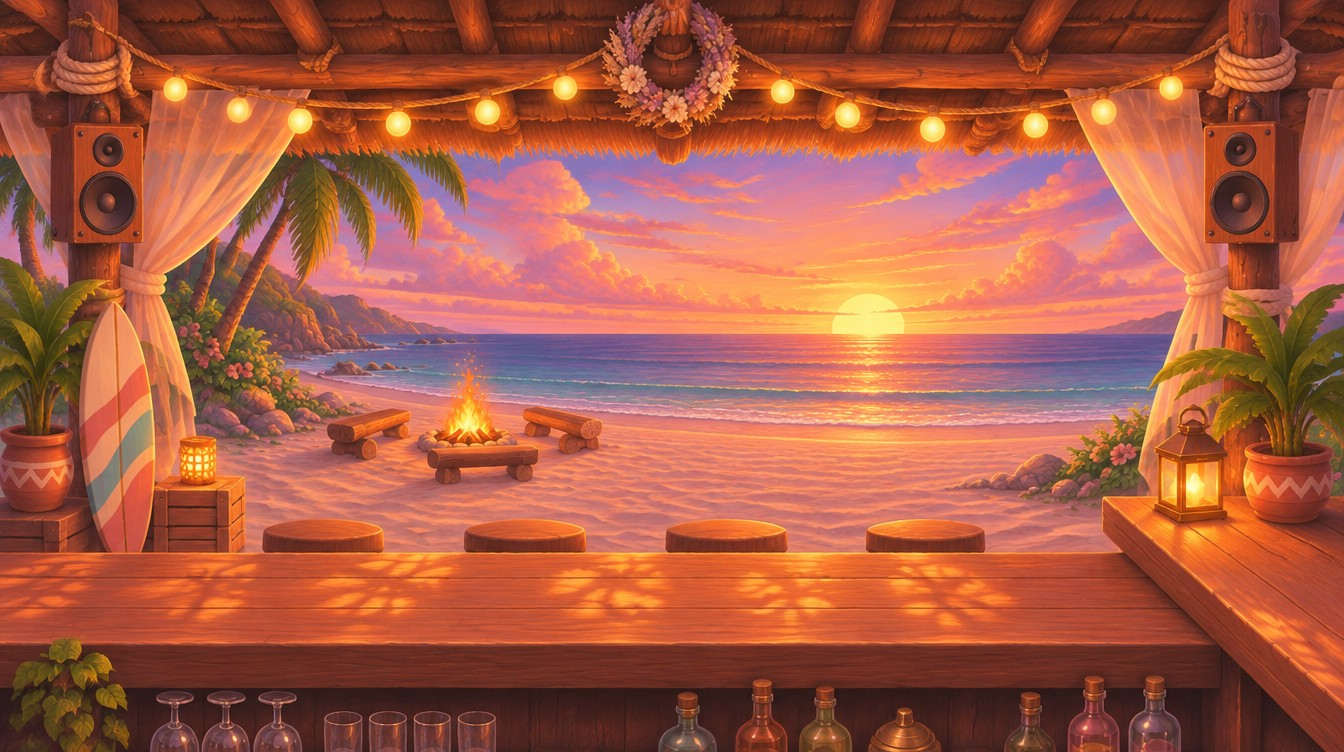
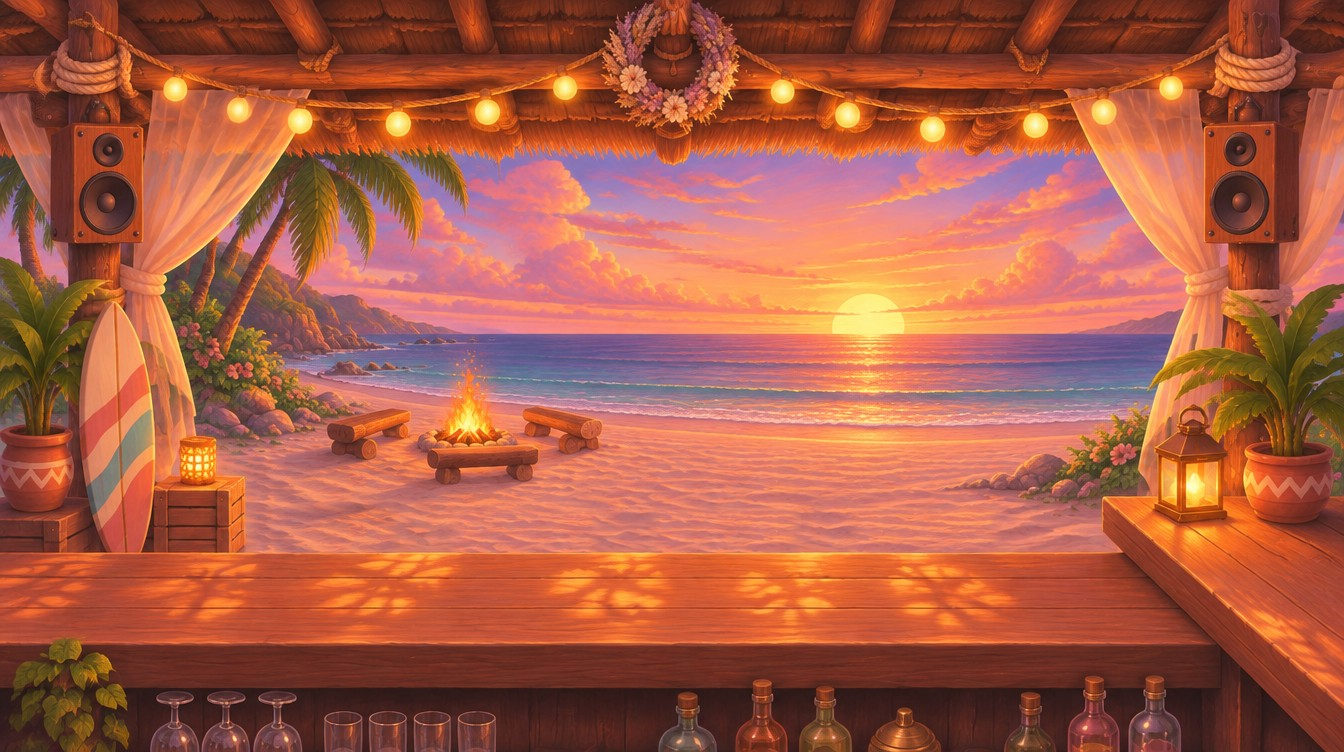
v1125l: 펍 그림 속 의자 지우고 자리마다 의자 배치, 캐릭터 키우기, 칵테일 잔 비주얼, 태블릿 열면 화면이 캐릭터 쪽으로
Claude-Session: https://claude.ai/code/session_01V1uW48asEmbAkskT1r7mEz

diff --git a/index.html b/index.html
@@ -234,6 +234,9 @@
   #bul .ln{position:absolute;left:0;right:0;top:26%;text-align:center;color:#f6e2c4;font:16px 'Gowun Batang','Nanum Myeongjo',serif;opacity:0;transition:opacity 1.6s;} #bul .ln.on{opacity:.85;}
   #bul .tm{position:absolute;left:0;right:0;top:calc(20px + env(safe-area-inset-top));text-align:center;color:#f6e2c4;opacity:.5;font:13px 'Gowun Dodum';}
   #bul .hint{position:absolute;left:0;right:0;bottom:calc(24px + env(safe-area-inset-bottom));text-align:center;color:#f6e2c4;opacity:.35;font:12px 'Gowun Dodum';}
+  .pubCup{position:absolute;top:76%;height:7.5%;aspect-ratio:80/90;transform:translate(-50%,-100%);animation:cupIn .7s cubic-bezier(.2,.9,.3,1.2);filter:drop-shadow(0 3px 2px rgba(60,20,0,.35));}
+  .pubCup svg{width:100%;height:100%;display:block;}
+  @keyframes cupIn{0%{transform:translate(-50%,40%);opacity:0}60%{opacity:1}100%{transform:translate(-50%,-100%)}}
   #who{position:fixed;top:calc(12px + env(safe-area-inset-top));right:14px;padding:6px 12px;border-radius:999px;background:rgba(40,30,45,.55);color:#fff4e2;font-size:13px;backdrop-filter:blur(6px);z-index:5;}
   #seats{position:absolute;inset:0;pointer-events:none;}
   .seatm{position:absolute;border-radius:50%;border:2px solid rgba(255,238,196,.95);background:rgba(255,226,170,.18);box-shadow:0 0 10px 2px rgba(255,205,130,.65);transform:translate(-50%,-50%);opacity:0;transition:opacity .35s;animation:seatp 1.5s ease-in-out infinite;}
@@ -694,7 +697,7 @@
 <div id="note" class="ov"><div class="nb"><button class="x" aria-label="닫기">×</button><div class="tabs"><button data-t="cal">달력</button><button data-t="day">일기</button><button data-t="req">부탁</button><button data-t="mys">수수께끼</button><button data-t="fr">친구</button></div><div class="pgs"><div id="noteL"></div><div id="noteR"></div></div></div></div><div id="toast"></div><div id="tutb"></div><div id="hTip"></div><div id="coach"></div><div id="cs"><div class="card"><button class="x" aria-label="닫기">×</button><div id="csBody"></div></div></div><div id="csd"></div><button id="admBtn" aria-label="관리자">⚙</button><div id="admTag">테스트 중 · 기록이 저장되지 않아요</div><div id="adm" class="ov"><div class="card"><button class="x" aria-label="닫기">×</button><div id="admBody"></div></div></div><div id="pst"><div class="card"><button class="x" aria-label="닫기">×</button><div id="pstBody"></div></div></div><div id="shop"><div class="card"><button class="x" aria-label="닫기">×</button><div id="shopBody"></div></div></div><button id="sndBtn" aria-label="소리"><img src="ui/i_snd_on.webp" alt=""></button><div id="dress"></div><div id="who">1명 접속 중</div>
 <button id="standBtn">일어나기</button><button id="fireBtn">🔥 모닥불 앞에서 뭐 할까</button><button id="focusBtn"></button><button id="outBtn">나가기</button><button id="decoBtn">꾸미기</button><div id="homeEdit"></div><div id="homeBar"></div><form id="chat" autocomplete="off"><input id="msg" maxlength="60" placeholder="이웃에게 한마디"><button type="submit">보내기</button></form>
 <div id="fade"><div class="fcap" id="fcap"></div></div>
-<div id="title"><div style="position:absolute;right:10px;bottom:8px;font-size:11px;opacity:.45">v1125k</div>
+<div id="title"><div style="position:absolute;right:10px;bottom:8px;font-size:11px;opacity:.45">v1125l</div>
 <div class="scr" id="invScr"><div class="env" id="envBtn"><div class="flap"></div><div class="seal">H</div></div><p class="tt">현디에게서 초대장이 왔어요</p><p class="hint">봉투를 눌러 열어봐</p>
   <div class="letter" id="invLetter"><div class="lt">이브 빌리지로의 초대</div>
     <p>내가 아는 소중한 사람들을 전부 이 마을에 불렀어.<br>그러니까 여기 오는 사람은 다 내 친구야. 너희끼리는 처음 보는 사이일 수도 있지만.</p>
@@ -713,7 +716,7 @@
 <div id="load">마을 불러오는 중…</div>
 <script src="maps.js?v=1122x"></script>
 <script src="chars.js?v=1120b"></script>
-<script>Object.assign(window.MAPS,{hill:"hill/hill.jpg",mask_hill:"hill/mask.png",fx_hill:"post/fx.png",b_clock:"bld/clock.webp",b_clockh:"bld/clockh.webp",b_board:"bld/board.webp",curio:"curio/curio.jpg",pub:"pub/pub.jpg",mask_pub:"pub/mask.png",fx_pub:"post/fx.png",mask_curio:"curio/mask.png",fx_curio:"curio/fx.png",curio_float:"curio/float.png",post:"post/post.jpg?v=2",mask_post:"post/mask.png",fx_post:"post/fx.png",post_float:"post/float.png?v=2",camp:"grnd/camp.jpg",mask_camp:"post/mask.png",fx_camp:"post/fx.png",b_dome_on:"camp/dome_on.webp",b_dome_off:"camp/dome_off.webp",b_tipi_on:"camp/tipi_on.webp",b_tipi_off:"camp/tipi_off.webp",b_flag:"camp/flag.webp",b_mailbox:"camp/mailbox.webp",home:"home/room.jpg",mask_home:"post/mask.png",fx_home:"post/fx.png",b_h_bed:"home/bed.webp?v=2",b_h_bed_f:"home/bed_f.webp",b_h_bed_s_f:"home/bed_s_f.webp",b_h_armchair_f:"home/armchair_f.webp",b_h_armchair_s_f:"home/armchair_s_f.webp",b_h_rug:"home/rug.webp?v=2",b_h_stove:"home/stove.webp?v=2",b_h_table:"home/table.webp",b_h_chair:"home/chair.webp",b_h_armchair:"home/armchair.webp",b_h_rack:"home/rack.webp",b_h_shelf:"home/shelf.webp",b_h_plant:"home/plant.webp",b_h_lamp:"home/lamp.webp",b_h_side:"home/side.webp",b_h_chair_s:"home/chair_s.webp",b_h_armchair_s:"home/armchair_s.webp",b_h_shelf_s:"home/shelf_s.webp",b_h_rack_s:"home/rack_s.webp",b_h_stove_s:"home/stove_s.webp",b_h_bed_s:"home/bed_s.webp",b_h_win_sea:"home/win_sea.webp",b_h_win_forest:"home/win_forest.webp",b_h_win_sky:"home/win_sky.webp",it_shell_w:"items/shell_w.webp",it_shell_p:"items/shell_p.webp",it_shell_v:"items/shell_v.webp",it_wood:"items/wood.webp",it_glass_g:"items/glass_g.webp",it_conch:"items/conch.webp",it_glass_b:"items/glass_b.webp",it_star:"items/star.webp",it_pearl:"items/pearl.webp",it_bottle:"items/bottle.webp",plaza:"grnd/plaza2.jpg",beach:"grnd/beach.jpg",b_news:"bld/news.webp",b_cafe:"bld/cafe.webp",b_library:"bld/library.webp",b_curio2:"bld/curio2.webp",b_post2:"bld/post2.webp",b_pub:"bld/pub.webp",library:"lib3/hall.jpg",mask_library:"lib/mask_library.png",fx_library:"lib3/fx.png",b_l3_t1L:"lib3/t1L.webp",b_book:"lib2/book.webp",b_obook:"lib3/obook_f.webp",b_opage:"lib3/opage_f.webp",b_l3_t2L:"lib3/t2L.webp",b_l3_t3L:"lib3/t3L.webp",b_l3_t1:"lib3/t1.webp",b_l3_t2:"lib3/t2.webp",b_l3_t3:"lib3/t3.webp",b_l3_b1b:"lib3/b1b.webp",b_l3_b2b:"lib3/b2b.webp",b_l3_b3b:"lib3/b3b.webp",b_l3_sofa:"lib3/sofa.webp",b_l3_arm1:"lib3/arm1.webp",b_l3_arm2:"lib3/arm2.webp",b_l3_lect:"lib3/lect.webp",b_lb_table:"lib2/table.webp",b_lb_bench:"lib2/bench.webp",b_lb_sofa:"lib2/sofa.webp",b_lb_arm:"lib2/arm.webp",b_lb_gchair:"lib2/gchair.webp",b_lb_lamp:"lib2/lamp.webp",b_lb_desk:"lib2/desk.webp",b_lb_lectern:"lib2/lectern.webp",b_lb_sofa_f:"lib2/sofa_f.webp",b_lb_arm_f:"lib2/arm_f.webp",b_lb_gchair_f:"lib2/gchair_f.webp",candles:"lib/candles.png"});</script>
+<script>Object.assign(window.MAPS,{hill:"hill/hill.jpg",mask_hill:"hill/mask.png",fx_hill:"post/fx.png",b_clock:"bld/clock.webp",b_clockh:"bld/clockh.webp",b_board:"bld/board.webp",curio:"curio/curio.jpg",pub:"pub/pub.jpg",b_stool:"pub/stool.webp",mask_pub:"pub/mask.png",fx_pub:"post/fx.png",mask_curio:"curio/mask.png",fx_curio:"curio/fx.png",curio_float:"curio/float.png",post:"post/post.jpg?v=2",mask_post:"post/mask.png",fx_post:"post/fx.png",post_float:"post/float.png?v=2",camp:"grnd/camp.jpg",mask_camp:"post/mask.png",fx_camp:"post/fx.png",b_dome_on:"camp/dome_on.webp",b_dome_off:"camp/dome_off.webp",b_tipi_on:"camp/tipi_on.webp",b_tipi_off:"camp/tipi_off.webp",b_flag:"camp/flag.webp",b_mailbox:"camp/mailbox.webp",home:"home/room.jpg",mask_home:"post/mask.png",fx_home:"post/fx.png",b_h_bed:"home/bed.webp?v=2",b_h_bed_f:"home/bed_f.webp",b_h_bed_s_f:"home/bed_s_f.webp",b_h_armchair_f:"home/armchair_f.webp",b_h_armchair_s_f:"home/armchair_s_f.webp",b_h_rug:"home/rug.webp?v=2",b_h_stove:"home/stove.webp?v=2",b_h_table:"home/table.webp",b_h_chair:"home/chair.webp",b_h_armchair:"home/armchair.webp",b_h_rack:"home/rack.webp",b_h_shelf:"home/shelf.webp",b_h_plant:"home/plant.webp",b_h_lamp:"home/lamp.webp",b_h_side:"home/side.webp",b_h_chair_s:"home/chair_s.webp",b_h_armchair_s:"home/armchair_s.webp",b_h_shelf_s:"home/shelf_s.webp",b_h_rack_s:"home/rack_s.webp",b_h_stove_s:"home/stove_s.webp",b_h_bed_s:"home/bed_s.webp",b_h_win_sea:"home/win_sea.webp",b_h_win_forest:"home/win_forest.webp",b_h_win_sky:"home/win_sky.webp",it_shell_w:"items/shell_w.webp",it_shell_p:"items/shell_p.webp",it_shell_v:"items/shell_v.webp",it_wood:"items/wood.webp",it_glass_g:"items/glass_g.webp",it_conch:"items/conch.webp",it_glass_b:"items/glass_b.webp",it_star:"items/star.webp",it_pearl:"items/pearl.webp",it_bottle:"items/bottle.webp",plaza:"grnd/plaza2.jpg",beach:"grnd/beach.jpg",b_news:"bld/news.webp",b_cafe:"bld/cafe.webp",b_library:"bld/library.webp",b_curio2:"bld/curio2.webp",b_post2:"bld/post2.webp",b_pub:"bld/pub.webp",library:"lib3/hall.jpg",mask_library:"lib/mask_library.png",fx_library:"lib3/fx.png",b_l3_t1L:"lib3/t1L.webp",b_book:"lib2/book.webp",b_obook:"lib3/obook_f.webp",b_opage:"lib3/opage_f.webp",b_l3_t2L:"lib3/t2L.webp",b_l3_t3L:"lib3/t3L.webp",b_l3_t1:"lib3/t1.webp",b_l3_t2:"lib3/t2.webp",b_l3_t3:"lib3/t3.webp",b_l3_b1b:"lib3/b1b.webp",b_l3_b2b:"lib3/b2b.webp",b_l3_b3b:"lib3/b3b.webp",b_l3_sofa:"lib3/sofa.webp",b_l3_arm1:"lib3/arm1.webp",b_l3_arm2:"lib3/arm2.webp",b_l3_lect:"lib3/lect.webp",b_lb_table:"lib2/table.webp",b_lb_bench:"lib2/bench.webp",b_lb_sofa:"lib2/sofa.webp",b_lb_arm:"lib2/arm.webp",b_lb_gchair:"lib2/gchair.webp",b_lb_lamp:"lib2/lamp.webp",b_lb_desk:"lib2/desk.webp",b_lb_lectern:"lib2/lectern.webp",b_lb_sofa_f:"lib2/sofa_f.webp",b_lb_arm_f:"lib2/arm_f.webp",b_lb_gchair_f:"lib2/gchair_f.webp",candles:"lib/candles.png"});</script>
 <script type="module">
 import * as THREE from 'three';
 import { GLTFLoader } from 'three/addons/loaders/GLTFLoader.js';import * as SkelU from 'three/addons/utils/SkeletonUtils.js';
@@ -751,7 +754,7 @@ const PLACES={
     "entry":[49,93],
     "glows":[[50,53,8,"255,190,110"],[22,77,4,"255,190,110"],[32,88,4,"255,190,110"],[66,80.5,4,"255,190,110"]]}
   ,curio:{"contain":true,"label":"만물상","img":"curio","ar":0.6666666666666666,"size":0.072,"gx":120,"gy":180,"dust":true,"flies":false,"sea":null,"floatTex":"curio_float","floatAmp":2.4,"candles":[{"x":35.745,"y":13.813,"w":20.548,"h":9.817,"u0":0.0,"v0":0.0,"u1":0.2,"v1":0.3926940639269406},{"x":56.978,"y":12.985,"w":11.644,"h":8.676,"u0":0.2,"v0":0.0,"u1":0.31333333333333335,"v1":0.3470319634703196},{"x":25.728,"y":17.494,"w":11.815,"h":9.989,"u0":0.4,"v0":0.0,"u1":0.515,"v1":0.3995433789954338},{"x":61.601,"y":20.833,"w":13.014,"h":6.963,"u0":0.6,"v0":0.0,"u1":0.7266666666666667,"v1":0.2785388127853881},{"x":43.75,"y":22.489,"w":12.5,"h":12.5,"u0":0.8,"v0":0.0,"u1":0.9216666666666666,"v1":0.5},{"x":33.861,"y":25.828,"w":9.503,"h":8.219,"u0":0.0,"v0":0.5,"u1":0.0925,"v1":0.8287671232876712},{"x":54.966,"y":27.911,"w":16.952,"h":8.333,"u0":0.2,"v0":0.5,"u1":0.365,"v1":0.8333333333333334},{"x":27.483,"y":32.078,"w":12.5,"h":10.959,"u0":0.4,"v0":0.5,"u1":0.5216666666666666,"v1":0.9383561643835616},{"x":43.108,"y":34.646,"w":9.932,"h":9.817,"u0":0.6,"v0":0.5,"u1":0.6966666666666667,"v1":0.8926940639269406},{"x":54.495,"y":34.646,"w":15.753,"h":9.817,"u0":0.8,"v0":0.5,"u1":0.9533333333333334,"v1":0.8926940639269406}],"walk":[[[27.5,69.5],[72.5,69.5],[84,93],[85,99.6],[15,99.6],[16,93]]],"block":[],"seats":[],"occ":[],"exits":[{"poly":[[38,92.6],[62,92.6],[62,99.6],[38,99.6]],"to":"plaza","spawn":[57.4,60],"face":[50,64]}],"acts":[{"r":[37.5,56.5,45.5,62.5],"to":[42,72],"act":"shop","bell":[41.5,60.2]}],"entry":[50,88.6],"outBtn":true,"glows":[[36,58,5,"235,150,255"],[50,62,6,"255,190,110"],[20,28,6,"235,150,255"],[81,28,6,"235,150,255"]]}
-  ,pub:{"label":"비치 펍","img":"pub","ar":1.7872340425531914,"size":0.125,"gx":240,"gy":135,"dust":false,"flies":false,"sea":{"x0":22,"x1":86,"y0":45,"y1":55},"bld":[],"walk":[[[16.5,63.5],[80,63.5],[80,71.3],[16.5,71.3]]],"block":[],"seats":[{"x":18.5,"y":72.2,"behind":true,"look":[18.5,99]},{"x":24.2,"y":72.2,"behind":true,"look":[24.2,99]},{"x":31.5,"y":72.2,"behind":true,"look":[31.5,99]},{"x":38.8,"y":72.2,"behind":true,"look":[38.8,99]},{"x":46.4,"y":72.2,"behind":true,"look":[46.4,99]},{"x":53.8,"y":72.2,"behind":true,"look":[53.8,99]},{"x":61.4,"y":72.2,"behind":true,"look":[61.4,99]},{"x":69,"y":72.2,"behind":true,"look":[69,99]},{"x":76.2,"y":72.2,"behind":true,"look":[76.2,99]}],"occ":[{"p":[[0,73.2],[81.8,73.2],[81.8,66],[100,66],[100,100],[0,100]],"b":99}],"exits":[{"poly":[[13,62],[17,62],[17,71],[13,71]],"to":"beach","spawn":[30,61],"face":[30,70]}],"entry":[48,67],"outBtn":true,"glows":[[35,58,7,"255,160,70",true],[88.6,62,4,"255,190,110",true],[14.8,60.5,3,"255,190,110",true],[13,12,3,"255,210,140"],[29.5,16,3,"255,210,140"],[42,13,3,"255,210,140"],[63,14,3,"255,210,140"],[77,16,3,"255,210,140"]]}
+  ,pub:{"label":"비치 펍","img":"pub","ar":1.7872340425531914,"size":0.16,"gx":240,"gy":135,"dust":false,"flies":false,"sea":{"x0":22,"x1":86,"y0":45,"y1":55},"bld":[{"img":"stool","cx":19,"by":74,"w":5.8,"z":71.5,"fp":[[16.5,72.8],[21.5,72.8],[21.5,73.4],[16.5,73.4]],"noShadow":true},{"img":"stool","cx":26.2,"by":74,"w":5.8,"z":71.5,"fp":[[23.7,72.8],[28.7,72.8],[28.7,73.4],[23.7,73.4]],"noShadow":true},{"img":"stool","cx":33.4,"by":74,"w":5.8,"z":71.5,"fp":[[30.9,72.8],[35.9,72.8],[35.9,73.4],[30.9,73.4]],"noShadow":true},{"img":"stool","cx":40.6,"by":74,"w":5.8,"z":71.5,"fp":[[38.1,72.8],[43.1,72.8],[43.1,73.4],[38.1,73.4]],"noShadow":true},{"img":"stool","cx":47.8,"by":74,"w":5.8,"z":71.5,"fp":[[45.3,72.8],[50.3,72.8],[50.3,73.4],[45.3,73.4]],"noShadow":true},{"img":"stool","cx":55,"by":74,"w":5.8,"z":71.5,"fp":[[52.5,72.8],[57.5,72.8],[57.5,73.4],[52.5,73.4]],"noShadow":true},{"img":"stool","cx":62.2,"by":74,"w":5.8,"z":71.5,"fp":[[59.7,72.8],[64.7,72.8],[64.7,73.4],[59.7,73.4]],"noShadow":true},{"img":"stool","cx":69.4,"by":74,"w":5.8,"z":71.5,"fp":[[66.9,72.8],[71.9,72.8],[71.9,73.4],[66.9,73.4]],"noShadow":true},{"img":"stool","cx":76.6,"by":74,"w":5.8,"z":71.5,"fp":[[74.1,72.8],[79.1,72.8],[79.1,73.4],[74.1,73.4]],"noShadow":true}],"walk":[[[16.5,63.5],[80,63.5],[80,71.3],[16.5,71.3]]],"block":[],"seats":[{"x":19,"y":70.4,"z":72,"look":[19,99]},{"x":26.2,"y":70.4,"z":72,"look":[26.2,99]},{"x":33.4,"y":70.4,"z":72,"look":[33.4,99]},{"x":40.6,"y":70.4,"z":72,"look":[40.6,99]},{"x":47.8,"y":70.4,"z":72,"look":[47.8,99]},{"x":55,"y":70.4,"z":72,"look":[55,99]},{"x":62.2,"y":70.4,"z":72,"look":[62.2,99]},{"x":69.4,"y":70.4,"z":72,"look":[69.4,99]},{"x":76.6,"y":70.4,"z":72,"look":[76.6,99]}],"occ":[{"p":[[0,73.2],[81.8,73.2],[81.8,66],[100,66],[100,100],[0,100]],"b":99}],"exits":[{"poly":[[13,62],[17,62],[17,71],[13,71]],"to":"beach","spawn":[30,61],"face":[30,70]}],"entry":[48,67],"outBtn":true,"glows":[[35,58,7,"255,160,70",true],[88.6,62,4,"255,190,110",true],[14.8,60.5,3,"255,190,110",true],[13,12,3,"255,210,140"],[29.5,16,3,"255,210,140"],[42,13,3,"255,210,140"],[63,14,3,"255,210,140"],[77,16,3,"255,210,140"]]}
   ,post:{"contain":true,"label":"우체국","img":"post","ar":0.6666666666666666,"size":0.072,"gx":120,"gy":180,"dust":true,"flies":false,"sea":null,"floatTex":"post_float","floatAmp":1.0,"candles":[{"x":51.413,"y":2.683,"w":8.048,"h":3.282,"u0":0.00209,"v0":0.00725,"u1":0.13703,"v1":0.29348},{"x":41.781,"y":7.078,"w":8.904,"h":3.311,"u0":0.25209,"v0":0.00725,"u1":0.40063,"v1":0.29348},{"x":52.997,"y":10.017,"w":11.301,"h":4.224,"u0":0.50209,"v0":0.00725,"u1":0.69142,"v1":0.37319},{"x":32.791,"y":13.584,"w":11.986,"h":4.224,"u0":0.75209,"v0":0.00725,"u1":0.95293,"v1":0.37319},{"x":51.627,"y":17.865,"w":14.127,"h":5.508,"u0":0.00209,"v0":0.50725,"u1":0.23849,"v1":0.98551},{"x":41.909,"y":23.002,"w":8.776,"h":3.596,"u0":0.25209,"v0":0.50725,"u1":0.39854,"v1":0.81884},{"x":28.938,"y":25.856,"w":14.683,"h":5.594,"u0":0.50209,"v0":0.50725,"u1":0.74791,"v1":0.99275},{"x":50.257,"y":28.995,"w":14.341,"h":5.137,"u0":0.75209,"v0":0.50725,"u1":0.99163,"v1":0.9529}],"walk":[[[29,66],[70,66],[76,67.5],[84,73.5],[91,80],[95,87],[92,92],[84,96.5],[80,99.6],[20,99.6],[13,95],[4,90],[3,82],[16,81.5],[26,81],[28.5,77],[29,72]]],"block":[],"seats":[],"occ":[],"exits":[{"poly":[[38,92.6],[62,92.6],[62,99.6],[38,99.6]],"to":"plaza","spawn":[73.5,58.8],"face":[66,62]}],"acts":[{"r":[41.5,52,49.5,58.2],"to":[46.5,68.5],"act":"post","say":"counter","bell":[45.5,55.8]},{"r":[2,58,27.5,80],"to":[32,77],"act":"post","say":"desk"},{"r":[73,40,100,72],"to":[79,72],"act":"post","say":"window"}],"glows":[[14,20,5,"255,180,140"],[86,20,5,"255,180,140"],[9,58,5,"255,190,110"],[34,46,4,"255,190,110"],[65,46,4,"255,190,110"],[50,1,9,"255,220,160"]],"entry":[50,88.6],"outBtn":true}
   ,camp:{"ar":1.7777777777777777,"img":"camp","label":"절벽 위 들판","size":0.046,"dust":true,"flies":true,"sea":null,"bld":[{"img":"sg_plaza_l","cx":6,"by":61.4,"w":1.3,"z":61.4,"fp":[[5.4,61],[6.6,61],[6.6,61.4],[5.4,61.4]],"door":[0.8,65.5]},{"img":"dome_off","cx":15.32,"by":24.3,"w":6.29,"fp":[[17.84,23.0],[17.5,23.75],[16.58,24.3],[15.32,24.5],[14.06,24.3],[13.14,23.75],[12.8,23.0],[13.14,22.25],[14.06,21.7],[15.32,21.5],[16.58,21.7],[17.5,22.25]],"door":[15.32,25.8],"tent":0,"t":"dome","c":5,"flip":true,"mb":[18.97,24.5]},{"img":"tipi_off","cx":24.58,"by":19.4,"w":5.16,"fp":[[26.64,18.1],[26.37,18.85],[25.61,19.4],[24.58,19.6],[23.55,19.4],[22.79,18.85],[22.52,18.1],[22.79,17.35],[23.55,16.8],[24.58,16.6],[25.61,16.8],[26.37,17.35]],"door":[24.58,20.9],"tent":1,"t":"tipi","c":4,"flip":true,"mb":[21.59,19.6]},{"img":"dome_off","cx":30.73,"by":26.1,"w":6.4,"fp":[[33.29,24.8],[32.95,25.55],[32.01,26.1],[30.73,26.3],[29.45,26.1],[28.51,25.55],[28.17,24.8],[28.51,24.05],[29.45,23.5],[30.73,23.3],[32.01,23.5],[32.95,24.05]],"door":[30.73,27.6],"tent":2,"t":"dome","c":3,"flip":true,"mb":[27.02,26.3]},{"img":"dome_off","cx":35.14,"by":18.3,"w":6.23,"fp":[[37.63,17.0],[37.3,17.75],[36.39,18.3],[35.14,18.5],[33.89,18.3],[32.98,17.75],[32.65,17.0],[32.98,16.25],[33.89,15.7],[35.14,15.5],[36.39,15.7],[37.3,16.25]],"door":[35.14,19.8],"tent":3,"t":"dome","c":0,"flip":false,"mb":[31.53,18.5]},{"img":"tipi_off","cx":41.38,"by":23.0,"w":4.81,"fp":[[43.3,21.7],[43.05,22.45],[42.34,23.0],[41.38,23.2],[40.42,23.0],[39.71,22.45],[39.46,21.7],[39.71,20.95],[40.42,20.4],[41.38,20.2],[42.34,20.4],[43.05,20.95]],"door":[41.38,24.5],"tent":4,"t":"tipi","c":5,"flip":false,"mb":[38.59,23.2]},{"img":"dome_off","cx":68.67,"by":22.5,"w":6.12,"fp":[[71.12,21.2],[70.79,21.95],[69.89,22.5],[68.67,22.7],[67.45,22.5],[66.55,21.95],[66.22,21.2],[66.55,20.45],[67.45,19.9],[68.67,19.7],[69.89,19.9],[70.79,20.45]],"door":[68.67,24.0],"tent":5,"t":"dome","c":0,"flip":false,"mb":[65.12,22.7]},{"img":"dome_off","cx":74.89,"by":26.5,"w":6.11,"fp":[[77.33,25.2],[77.01,25.95],[76.11,26.5],[74.89,26.7],[73.67,26.5],[72.77,25.95],[72.45,25.2],[72.77,24.45],[73.67,23.9],[74.89,23.7],[76.11,23.9],[77.01,24.45]],"door":[74.89,28.0],"tent":6,"t":"dome","c":2,"flip":true,"mb":[71.35,26.7]},{"img":"tipi_off","cx":48.26,"by":18.4,"w":5.02,"fp":[[50.27,17.1],[50.0,17.85],[49.26,18.4],[48.26,18.6],[47.26,18.4],[46.52,17.85],[46.25,17.1],[46.52,16.35],[47.26,15.8],[48.26,15.6],[49.26,15.8],[50.0,16.35]],"door":[48.26,19.9],"tent":7,"t":"tipi","c":4,"flip":false,"mb":[45.35,18.6]},{"img":"dome_off","cx":21.87,"by":39.6,"w":6.2,"fp":[[24.35,38.3],[24.02,39.05],[23.11,39.6],[21.87,39.8],[20.63,39.6],[19.72,39.05],[19.39,38.3],[19.72,37.55],[20.63,37.0],[21.87,36.8],[23.11,37.0],[24.02,37.55]],"door":[21.87,41.1],"tent":8,"t":"dome","c":5,"flip":true,"mb":[25.47,39.8]},{"img":"tipi_off","cx":14.27,"by":45.5,"w":4.8,"fp":[[16.19,44.2],[15.93,44.95],[15.23,45.5],[14.27,45.7],[13.31,45.5],[12.61,44.95],[12.35,44.2],[12.61,43.45],[13.31,42.9],[14.27,42.7],[15.23,42.9],[15.93,43.45]],"door":[14.27,47.0],"tent":9,"t":"tipi","c":4,"flip":true,"mb":[17.05,45.7]},{"img":"dome_off","cx":32.74,"by":43.4,"w":6.21,"fp":[[35.22,42.1],[34.89,42.85],[33.98,43.4],[32.74,43.6],[31.5,43.4],[30.59,42.85],[30.26,42.1],[30.59,41.35],[31.5,40.8],[32.74,40.6],[33.98,40.8],[34.89,41.35]],"door":[32.74,44.9],"tent":10,"t":"dome","c":3,"flip":false,"mb":[29.14,43.6]},{"img":"dome_off","cx":42.44,"by":40.8,"w":6.38,"fp":[[44.99,39.5],[44.65,40.25],[43.72,40.8],[42.44,41.0],[41.16,40.8],[40.23,40.25],[39.89,39.5],[40.23,38.75],[41.16,38.2],[42.44,38.0],[43.72,38.2],[44.65,38.75]],"door":[42.44,42.3],"tent":11,"t":"dome","c":2,"flip":true,"mb":[38.74,41.0]},{"img":"tipi_off","cx":52.26,"by":43.0,"w":5.15,"fp":[[54.32,41.7],[54.04,42.45],[53.29,43.0],[52.26,43.2],[51.23,43.0],[50.48,42.45],[50.2,41.7],[50.48,40.95],[51.23,40.4],[52.26,40.2],[53.29,40.4],[54.04,40.95]],"door":[52.26,44.5],"tent":12,"t":"tipi","c":1,"flip":true,"mb":[49.27,43.2]},{"img":"dome_off","cx":68.6,"by":46.0,"w":6.27,"fp":[[71.11,44.7],[70.77,45.45],[69.85,46.0],[68.6,46.2],[67.35,46.0],[66.43,45.45],[66.09,44.7],[66.43,43.95],[67.35,43.4],[68.6,43.2],[69.85,43.4],[70.77,43.95]],"door":[68.6,47.5],"tent":13,"t":"dome","c":2,"flip":false,"mb":[64.96,46.2]},{"img":"dome_off","cx":25.28,"by":61.0,"w":6.26,"fp":[[27.78,59.7],[27.45,60.45],[26.53,61.0],[25.28,61.2],[24.03,61.0],[23.11,60.45],[22.78,59.7],[23.11,58.95],[24.03,58.4],[25.28,58.2],[26.53,58.4],[27.45,58.95]],"door":[25.28,62.5],"tent":14,"t":"dome","c":0,"flip":false,"mb":[21.65,61.2]},{"img":"tipi_off","cx":12.97,"by":65.2,"w":4.83,"fp":[[14.9,63.9],[14.64,64.65],[13.94,65.2],[12.97,65.4],[12.0,65.2],[11.3,64.65],[11.04,63.9],[11.3,63.15],[12.0,62.6],[12.97,62.4],[13.94,62.6],[14.64,63.15]],"door":[12.97,66.7],"tent":15,"t":"tipi","c":3,"flip":true,"mb":[15.77,65.4]},{"img":"dome_off","cx":18.26,"by":74.7,"w":6.7,"fp":[[20.94,73.4],[20.58,74.15],[19.6,74.7],[18.26,74.9],[16.92,74.7],[15.94,74.15],[15.58,73.4],[15.94,72.65],[16.92,72.1],[18.26,71.9],[19.6,72.1],[20.58,72.65]],"door":[18.26,76.2],"tent":16,"t":"dome","c":4,"flip":false,"mb":[22.15,74.9]},{"img":"tipi_off","cx":34.45,"by":68.0,"w":5.19,"fp":[[36.53,66.7],[36.25,67.45],[35.49,68.0],[34.45,68.2],[33.41,68.0],[32.65,67.45],[32.37,66.7],[32.65,65.95],[33.41,65.4],[34.45,65.2],[35.49,65.4],[36.25,65.95]],"door":[34.45,69.5],"tent":17,"t":"tipi","c":5,"flip":true,"mb":[31.44,68.2]},{"img":"dome_off","cx":28.34,"by":81.4,"w":6.4,"fp":[[30.9,80.1],[30.56,80.85],[29.62,81.4],[28.34,81.6],[27.06,81.4],[26.12,80.85],[25.78,80.1],[26.12,79.35],[27.06,78.8],[28.34,78.6],[29.62,78.8],[30.56,79.35]],"door":[28.34,82.9],"tent":18,"t":"dome","c":0,"flip":false,"mb":[24.63,81.6]},{"img":"dome_off","cx":40.58,"by":80.7,"w":6.68,"fp":[[43.25,79.4],[42.89,80.15],[41.92,80.7],[40.58,80.9],[39.24,80.7],[38.27,80.15],[37.91,79.4],[38.27,78.65],[39.24,78.1],[40.58,77.9],[41.92,78.1],[42.89,78.65]],"door":[40.58,82.2],"tent":19,"t":"dome","c":5,"flip":true,"mb":[36.71,80.9]},{"img":"tipi_off","cx":51.45,"by":62.0,"w":5.12,"fp":[[53.5,60.7],[53.22,61.45],[52.47,62.0],[51.45,62.2],[50.43,62.0],[49.68,61.45],[49.4,60.7],[49.68,59.95],[50.43,59.4],[51.45,59.2],[52.47,59.4],[53.22,59.95]],"door":[51.45,63.5],"tent":20,"t":"tipi","c":4,"flip":false,"mb":[48.48,62.2]},{"img":"dome_off","cx":72.43,"by":64.0,"w":6.61,"fp":[[75.07,62.7],[74.72,63.45],[73.75,64.0],[72.43,64.2],[71.11,64.0],[70.14,63.45],[69.79,62.7],[70.14,61.95],[71.11,61.4],[72.43,61.2],[73.75,61.4],[74.72,61.95]],"door":[72.43,65.5],"tent":21,"t":"dome","c":3,"flip":false,"mb":[68.6,64.2]},{"img":"dome_off","cx":60.95,"by":70.0,"w":6.3,"fp":[[63.47,68.7],[63.13,69.45],[62.21,70.0],[60.95,70.2],[59.69,70.0],[58.77,69.45],[58.43,68.7],[58.77,67.95],[59.69,67.4],[60.95,67.2],[62.21,67.4],[63.13,67.95]],"door":[60.95,71.5],"tent":22,"t":"dome","c":2,"flip":true,"mb":[57.3,70.2]},{"img":"tipi_off","cx":78.25,"by":73.5,"w":4.81,"fp":[[80.17,72.2],[79.92,72.95],[79.21,73.5],[78.25,73.7],[77.29,73.5],[76.58,72.95],[76.33,72.2],[76.58,71.45],[77.29,70.9],[78.25,70.7],[79.21,70.9],[79.92,71.45]],"door":[78.25,75.0],"tent":23,"t":"tipi","c":2,"flip":true,"mb":[75.46,73.7]},{"img":"dome_off","cx":67.51,"by":80.5,"w":6.24,"fp":[[70.01,79.2],[69.67,79.95],[68.76,80.5],[67.51,80.7],[66.26,80.5],[65.35,79.95],[65.01,79.2],[65.35,78.45],[66.26,77.9],[67.51,77.7],[68.76,77.9],[69.67,78.45]],"door":[67.51,82.0],"tent":24,"t":"dome","c":3,"flip":true,"mb":[63.89,80.7]},{"img":"tipi_off","cx":54.64,"by":83.0,"w":4.97,"fp":[[56.63,81.7],[56.36,82.45],[55.63,83.0],[54.64,83.2],[53.65,83.0],[52.92,82.45],[52.65,81.7],[52.92,80.95],[53.65,80.4],[54.64,80.2],[55.63,80.4],[56.36,80.95]],"door":[54.64,84.5],"tent":25,"t":"tipi","c":1,"flip":false,"mb":[51.76,83.2]},{"img":"dome_off","cx":56.92,"by":39.5,"w":6.63,"fp":[[59.57,38.2],[59.22,38.95],[58.25,39.5],[56.92,39.7],[55.59,39.5],[54.62,38.95],[54.27,38.2],[54.62,37.45],[55.59,36.9],[56.92,36.7],[58.25,36.9],[59.22,37.45]],"door":[56.92,41.0],"tent":26,"t":"dome","c":3,"flip":false,"mb":[53.07,39.7]},{"img":"tipi_off","cx":75.3,"by":42.2,"w":5.09,"fp":[[77.34,40.9],[77.06,41.65],[76.32,42.2],[75.3,42.4],[74.28,42.2],[73.54,41.65],[73.26,40.9],[73.54,40.15],[74.28,39.6],[75.3,39.4],[76.32,39.6],[77.06,40.15]],"door":[75.3,43.7],"tent":27,"t":"tipi","c":1,"flip":true,"mb":[72.35,42.4]},{"img":"dome_off","cx":79.89,"by":60.5,"w":6.19,"fp":[[82.37,59.2],[82.03,59.95],[81.13,60.5],[79.89,60.7],[78.65,60.5],[77.75,59.95],[77.41,59.2],[77.75,58.45],[78.65,57.9],[79.89,57.7],[81.13,57.9],[82.03,58.45]],"door":[79.89,62.0],"tent":28,"t":"dome","c":1,"flip":true,"mb":[76.3,60.7]},{"img":"tipi_off","cx":57.35,"by":75.5,"w":5.17,"fp":[[59.42,74.2],[59.14,74.95],[58.38,75.5],[57.35,75.7],[56.32,75.5],[55.56,74.95],[55.28,74.2],[55.56,73.45],[56.32,72.9],[57.35,72.7],[58.38,72.9],[59.14,73.45]],"door":[57.35,77.0],"tent":29,"t":"tipi","c":2,"flip":true,"mb":[54.35,75.7]}],"walk":[[[10,28],[12,21],[16,16.5],[21,13.8],[26,11.2],[30,10.6],[35,11],[43,12.2],[50,15],[53.5,17],[53.5,24.5],[52.5,27.8],[44,29],[35,29.8],[27,31],[19,30.5],[17.5,29]],[[10.5,27.5],[18,28],[17,38.5],[10,38.5]],[[52.5,21.8],[63,23],[62.5,27.2],[52.5,25.9]],[[62,23.5],[64,17],[70.5,14.6],[75.5,15.6],[78.5,19],[79,25.5],[77,29.5],[69,32],[63.5,30],[62,27]],[[61.5,29.5],[68,29.5],[67.5,38.5],[60.5,38.5]],[[10,38],[17,36],[27,33.5],[40,33.3],[50,33.8],[56.5,34.5],[58.5,36.5],[61,38.5],[62.5,37.8],[73.5,36.7],[77.5,38.3],[78,45.5],[73.7,49.4],[65,49],[58.7,49],[51,49],[46.5,48.8],[37,49.4],[29.4,50],[15,49.4],[10,46],[8,42]],[[38.5,48],[47,48],[48.5,58.5],[39.5,58.5]],[[62,48],[66,48],[66.5,54.5],[61.5,54.5]],[[6.5,39],[11.5,39],[10.5,47],[8,53],[5,59],[2,62],[0,62.5],[0,69.5],[4,68.5],[9,64.5],[12.5,58.5],[11,54]],[[9,62],[12,57],[15.6,54],[29.4,54.4],[37.5,55.5],[40,58],[48,58],[51,53.3],[58.7,53.3],[65.6,53.3],[70.6,52.2],[76,54.4],[80.6,56],[85,60],[87.8,66.7],[88,73.3],[85,79],[77.5,82.8],[68.8,85.5],[59.4,87.8],[50,88.6],[40.6,87.8],[32,86.5],[26,83],[19.5,79.8],[14,76],[10.6,71],[8,66.7]]],"block":[{"t":"e","cx":18.97,"cy":24.5,"rx":0.4,"ry":0.45},{"t":"e","cx":21.59,"cy":19.6,"rx":0.4,"ry":0.45},{"t":"e","cx":27.02,"cy":26.3,"rx":0.4,"ry":0.45},{"t":"e","cx":31.53,"cy":18.5,"rx":0.4,"ry":0.45},{"t":"e","cx":38.59,"cy":23.2,"rx":0.4,"ry":0.45},{"t":"e","cx":65.12,"cy":22.7,"rx":0.4,"ry":0.45},{"t":"e","cx":71.35,"cy":26.7,"rx":0.4,"ry":0.45},{"t":"e","cx":45.35,"cy":18.6,"rx":0.4,"ry":0.45},{"t":"e","cx":25.47,"cy":39.8,"rx":0.4,"ry":0.45},{"t":"e","cx":17.05,"cy":45.7,"rx":0.4,"ry":0.45},{"t":"e","cx":29.14,"cy":43.6,"rx":0.4,"ry":0.45},{"t":"e","cx":38.74,"cy":41.0,"rx":0.4,"ry":0.45},{"t":"e","cx":49.27,"cy":43.2,"rx":0.4,"ry":0.45},{"t":"e","cx":64.96,"cy":46.2,"rx":0.4,"ry":0.45},{"t":"e","cx":21.65,"cy":61.2,"rx":0.4,"ry":0.45},{"t":"e","cx":15.77,"cy":65.4,"rx":0.4,"ry":0.45},{"t":"e","cx":22.15,"cy":74.9,"rx":0.4,"ry":0.45},{"t":"e","cx":31.44,"cy":68.2,"rx":0.4,"ry":0.45},{"t":"e","cx":24.63,"cy":81.6,"rx":0.4,"ry":0.45},{"t":"e","cx":36.71,"cy":80.9,"rx":0.4,"ry":0.45},{"t":"e","cx":48.48,"cy":62.2,"rx":0.4,"ry":0.45},{"t":"e","cx":68.6,"cy":64.2,"rx":0.4,"ry":0.45},{"t":"e","cx":57.3,"cy":70.2,"rx":0.4,"ry":0.45},{"t":"e","cx":75.46,"cy":73.7,"rx":0.4,"ry":0.45},{"t":"e","cx":63.89,"cy":80.7,"rx":0.4,"ry":0.45},{"t":"e","cx":51.76,"cy":83.2,"rx":0.4,"ry":0.45},{"t":"e","cx":53.07,"cy":39.7,"rx":0.4,"ry":0.45},{"t":"e","cx":72.35,"cy":42.4,"rx":0.4,"ry":0.45},{"t":"e","cx":76.3,"cy":60.7,"rx":0.4,"ry":0.45},{"t":"e","cx":54.35,"cy":75.7,"rx":0.4,"ry":0.45},{"t":"e","cx":19.9,"cy":24.4,"rx":0.6,"ry":0.7},{"t":"e","cx":28.6,"cy":18.3,"rx":0.6,"ry":0.7},{"t":"e","cx":35,"cy":25,"rx":0.6,"ry":0.7},{"t":"e","cx":38.4,"cy":17.8,"rx":0.6,"ry":0.7},{"t":"e","cx":45.1,"cy":22.2,"rx":0.6,"ry":0.7},{"t":"e","cx":50.3,"cy":26.1,"rx":0.6,"ry":0.7},{"t":"e","cx":72.2,"cy":21.1,"rx":0.6,"ry":0.7},{"t":"e","cx":67.6,"cy":27.6,"rx":0.6,"ry":0.7},{"t":"e","cx":77.8,"cy":25.8,"rx":0.6,"ry":0.7},{"t":"e","cx":24.7,"cy":40.2,"rx":0.6,"ry":0.7},{"t":"e","cx":36.1,"cy":43.3,"rx":0.6,"ry":0.7},{"t":"e","cx":46.1,"cy":40.9,"rx":0.6,"ry":0.7},{"t":"e","cx":55.6,"cy":42.2,"rx":0.6,"ry":0.7},{"t":"e","cx":71.9,"cy":46.1,"rx":0.6,"ry":0.7},{"t":"e","cx":18.6,"cy":45.8,"rx":0.6,"ry":0.7},{"t":"e","cx":29.3,"cy":61.4,"rx":0.6,"ry":0.7},{"t":"e","cx":17.2,"cy":65.6,"rx":0.6,"ry":0.7},{"t":"e","cx":39.4,"cy":68.3,"rx":0.6,"ry":0.7},{"t":"e","cx":23.8,"cy":74.7,"rx":0.6,"ry":0.7},{"t":"e","cx":32.5,"cy":82.2,"rx":0.6,"ry":0.7},{"t":"e","cx":45.5,"cy":81.7,"rx":0.6,"ry":0.7},{"t":"e","cx":48.3,"cy":79.4,"rx":0.6,"ry":0.7},{"t":"e","cx":56.6,"cy":61.7,"rx":0.6,"ry":0.7},{"t":"e","cx":65.3,"cy":70.6,"rx":0.6,"ry":0.7},{"t":"e","cx":60,"cy":82.8,"rx":0.6,"ry":0.7},{"t":"e","cx":72.6,"cy":81.1,"rx":0.6,"ry":0.7},{"t":"e","cx":76.9,"cy":64.2,"rx":0.6,"ry":0.7},{"t":"e","cx":83.6,"cy":73.9,"rx":0.6,"ry":0.7}],"seats":[],"occ":[],"exits":[{"poly":[[0,61.5],[1.6,61.5],[1.6,70],[0,70]],"sg":[6,61.4,3.4],"to":"plaza","spawn":[86.8,24.2],"face":[80,30]}],"camp":true,"glows":[[19.9,20.1,2.4,"255,200,120"],[28.6,14.0,2.4,"255,200,120"],[35,20.7,2.4,"255,200,120"],[38.4,13.5,2.4,"255,200,120"],[45.1,17.9,2.4,"255,200,120"],[50.3,21.8,2.4,"255,200,120"],[72.2,16.8,2.4,"255,200,120"],[67.6,23.3,2.4,"255,200,120"],[77.8,21.5,2.4,"255,200,120"],[24.7,35.9,2.4,"255,200,120"],[36.1,39.0,2.4,"255,200,120"],[46.1,36.6,2.4,"255,200,120"],[55.6,37.9,2.4,"255,200,120"],[71.9,41.8,2.4,"255,200,120"],[18.6,41.5,2.4,"255,200,120"],[29.3,57.1,2.4,"255,200,120"],[17.2,61.3,2.4,"255,200,120"],[39.4,64.0,2.4,"255,200,120"],[23.8,70.4,2.4,"255,200,120"],[32.5,77.9,2.4,"255,200,120"],[45.5,77.4,2.4,"255,200,120"],[48.3,75.1,2.4,"255,200,120"],[56.6,57.4,2.4,"255,200,120"],[65.3,66.3,2.4,"255,200,120"],[60,78.5,2.4,"255,200,120"],[72.6,76.8,2.4,"255,200,120"],[76.9,59.9,2.4,"255,200,120"],[83.6,69.6,2.4,"255,200,120"],[92.8,46.2,3.2,"255,150,70",1],[88,41.5,4,"255,190,120"]]}
   ,home:{"contain":true,"label":"내 텐트","img":"home","ar":0.6666666666666666,"size":0.1,"gx":100,"gy":150,"dust":true,"flies":false,"sea":null,"bld":[],"walk":[],"block":[],"seats":[],"occ":[],"glows":[],"exits":[{"poly":[[42,97.8],[58,97.8],[58,99.8],[42,99.8]],"to":"camp","spawn":[3.2,66],"face":[12,64]}],"outBtn":true,"fitW":true}
@@ -975,6 +978,7 @@ function stepChar(c,dt){if(c.bubT>0){c.bubT-=dt;if(c.bubT<=0&&c.bub){c.bub.remov
   if(d<=s){c.x=tx;c.y=ty;c.path.shift();if(!c.path.length){c.target=null;if(c.seat)startSit(c);else if(c.onArrive){const f=c.onArrive;c.onArrive=null;f();}}return;}
   c.x+=dx*AR/d*s/AR;c.y+=dy/d*s;faceTo(c,tx,ty);}
 function goTo(c,x,y,seat){
+  if(c===me&&placeKey==='pub'&&Pub.cup&&c.sitting&&seat!==c.seat)Pub.clearCup();
   if(c===me&&Fire.k==='mallow'){Fire.k=null;const mb=document.getElementById('mallowBtn');if(mb)mb.style.display='none';}
   if((c.sitting||(c.mv&&!c.mv.leave))&&c.seat){if(seat===c.seat)return;startStand(c,()=>goTo(c,x,y,seat));return;}  // 먼저 일어나서 자리 앞으로
   if(c.mv&&c.mv.leave){c.mv.then=()=>goTo(c,x,y,seat);return;}
@@ -2622,6 +2626,45 @@ const Puzzle={
     d.querySelector('[data-ok]').onclick=go;inp.addEventListener('keydown',e=>{if(e.key==='Enter')go();});},
   // 가판대에 가져가면 10초
   claim(){const s=this.S();if(!s||!this.done()||s.c)return false;s.c=1;Me.addSec(10);Me.save();Me.log('다 푼 낱말퍼즐을 동구리에게 가져갔다. 10초를 받았다. 동구리가 답을 한 번 더 확인했다.','pz_c'+ymd());return true;}};
+// ---- 칵테일 비주얼: 메뉴마다 다른 잔·색·장식 (코드로 그림) ----
+const DRINK_ART={
+ '다섯 시 반':{g:'coupe',c:['#ffb347','#ff6f91'],gar:'sun'},
+ '동구리의 영수증':{g:'rocks',c:['#7a4a1c','#3b2210'],gar:'receipt'},
+ '불멍 하이볼':{g:'high',c:['#f6b04a','#d9772a'],gar:'flame'},
+ '노을범 스페셜':{g:'tiki',c:['#5ec8d8','#2b7fb0'],gar:'umb'},
+ '걱정 한 스푼':{g:'mart',c:['#c9b8e8','#8c78c0'],gar:'paper'},
+ '바람이 쓴 시':{g:'high',c:['#dff5e3','#a8dcc0'],gar:'leaf'},
+ '반쯤 쓴 편지':{g:'wine',c:['#f6c6cf','#e597a8'],gar:'env',half:1},
+ '책다람의 연체료':{g:'mug',c:['#a0642e','#6b3d16'],gar:'acorn'},
+ '해질녘 연장근무':{g:'high',c:['#ff9a4d','#6b4c9a'],gar:'moon'},
+ '무릎 보이는 자세':{g:'rocks',c:['#e0485a','#a3203a'],gar:'cherry'},
+ '편지새 우유':{g:'milk',c:['#fffaf0','#efe6d6'],gar:'wing'},
+ '모래성 에이드':{g:'jar',c:['#ffe27a','#f5b83d'],gar:'straw'}};
+function drinkSVG(name){const a=DRINK_ART[name]||DRINK_ART['노을범 스페셜'],id='dg'+Math.random().toString(36).slice(2,7),[c1,c2]=a.c;
+  const grad=`<defs><linearGradient id="${id}" x1="0" y1="0" x2="0" y2="1"><stop offset="0" stop-color="${c1}"/><stop offset="1" stop-color="${c2}"/></linearGradient></defs>`,L=`url(#${id})`,G='rgba(255,255,255,.55)',S='rgba(255,255,255,.9)';
+  let body='';const y0=a.half?40:22;
+  if(a.g==='coupe')body=`<path d="M12 30 Q40 58 68 30 Z" fill="${L}"/><path d="M8 28 Q40 64 72 28" fill="none" stroke="${S}" stroke-width="2.5"/><rect x="38" y="46" width="4" height="34" fill="${G}"/><ellipse cx="40" cy="82" rx="16" ry="4" fill="${G}"/>`;
+  else if(a.g==='mart')body=`<path d="M12 26 L40 52 L68 26 Z" fill="${L}"/><path d="M8 22 L40 54 L72 22" fill="none" stroke="${S}" stroke-width="2.5"/><rect x="38" y="52" width="4" height="28" fill="${G}"/><ellipse cx="40" cy="82" rx="16" ry="4" fill="${G}"/>`;
+  else if(a.g==='wine')body=`<path d="M20 ${y0} L60 ${y0} Q60 58 40 60 Q20 58 20 ${y0} Z" fill="${L}"/><path d="M18 14 Q16 60 40 62 Q64 60 62 14" fill="none" stroke="${S}" stroke-width="2.5"/><rect x="38" y="60" width="4" height="20" fill="${G}"/><ellipse cx="40" cy="82" rx="15" ry="4" fill="${G}"/>`;
+  else if(a.g==='rocks')body=`<rect x="16" y="40" width="48" height="42" rx="5" fill="${L}"/><rect x="22" y="44" width="14" height="12" rx="3" fill="rgba(255,255,255,.45)"/><rect x="38" y="50" width="13" height="11" rx="3" fill="rgba(255,255,255,.35)"/><path d="M14 30 L16 84 L64 84 L66 30" fill="none" stroke="${S}" stroke-width="2.5"/>`;
+  else if(a.g==='high')body=`<rect x="24" y="${y0}" width="32" height="${84-y0}" rx="3" fill="${L}"/><path d="M22 10 L24 86 L56 86 L58 10" fill="none" stroke="${S}" stroke-width="2.5"/><rect x="28" y="40" width="9" height="9" rx="2" fill="rgba(255,255,255,.4)"/>`;
+  else if(a.g==='tiki')body=`<path d="M20 22 L60 22 L56 86 L24 86 Z" fill="${L}" stroke="#1f5e80" stroke-width="2"/><circle cx="33" cy="44" r="4" fill="#123"/><circle cx="47" cy="44" r="4" fill="#123"/><path d="M30 62 Q40 70 50 62" stroke="#123" stroke-width="3" fill="none"/>`;
+  else if(a.g==='mug')body=`<rect x="16" y="26" width="40" height="58" rx="6" fill="#d8c3a0" stroke="#8a6a44" stroke-width="2"/><path d="M56 38 Q72 40 70 56 Q68 70 56 68" fill="none" stroke="#8a6a44" stroke-width="5"/><rect x="19" y="27" width="34" height="8" rx="3" fill="${L}"/>`;
+  else if(a.g==='milk')body=`<path d="M28 12 L52 12 L52 26 Q62 34 62 46 L62 84 L18 84 L18 46 Q18 34 28 26 Z" fill="${L}" stroke="#cbbfa8" stroke-width="2"/><rect x="26" y="6" width="28" height="8" rx="2" fill="#e06a5a"/>`;
+  else if(a.g==='jar')body=`<rect x="18" y="26" width="44" height="58" rx="8" fill="${L}"/><rect x="16" y="18" width="48" height="10" rx="3" fill="#c9a26a"/><path d="M18 26 L18 84 L62 84 L62 26" fill="none" stroke="${S}" stroke-width="2.5"/>`;
+  const gar={sun:`<circle cx="66" cy="24" r="9" fill="#ffd34d" stroke="#ff9a3a" stroke-width="2"/>`,receipt:`<rect x="46" y="0" width="16" height="30" fill="#fdfbf4" stroke="#bbb"/><path d="M49 7h10M49 13h8M49 19h10" stroke="#999" stroke-width="1.5"/><rect x="53" y="28" width="2" height="16" fill="#8a5a34"/>`,
+    flame:`<path d="M40 4 Q48 14 44 20 Q52 18 50 10 Q60 22 48 26 L32 26 Q22 20 34 10 Q32 18 38 18 Q34 10 40 4 Z" fill="#ffb02e"><animate attributeName="opacity" values="1;.6;1" dur=".6s" repeatCount="indefinite"/></path>`,
+    umb:`<path d="M44 14 Q60 -2 76 14 Z" fill="#ff6f91"/><rect x="59" y="12" width="2" height="20" fill="#8a5a34" transform="rotate(-20 60 22)"/>`,
+    paper:`<path d="M54 8 L70 6 L72 20 L56 22 Z" fill="#fdfbf4" stroke="#b8a"/><path d="M58 12h10M58 16h8" stroke="#a9a" stroke-width="1.2"/><path d="M14 16 Q4 30 22 34" stroke="#c0c0c8" stroke-width="3" fill="none"/>`,
+    leaf:`<path d="M52 12 Q70 2 72 18 Q60 24 52 12 Z" fill="#6bbf6a"/><path d="M52 12 Q62 12 70 10" stroke="#3d8a3d" stroke-width="1.5" fill="none"/>`,
+    env:`<rect x="50" y="4" width="22" height="15" rx="1" fill="#fdfbf4" stroke="#c9a"/><path d="M50 4 L61 13 L72 4" fill="none" stroke="#c9a" stroke-width="1.5"/>`,
+    acorn:`<ellipse cx="58" cy="22" rx="7" ry="8" fill="#b07a3c"/><path d="M50 18 Q58 10 66 18 Z" fill="#6b4a2a"/>`,
+    moon:`<path d="M62 6 A10 10 0 1 0 70 22 A8 8 0 1 1 62 6 Z" fill="#ffe9a8"/>`,
+    cherry:`<circle cx="56" cy="32" r="7" fill="#d4203a"/><path d="M56 26 Q58 12 66 8" stroke="#3d6b2a" stroke-width="2" fill="none"/>`,
+    wing:`<path d="M60 40 Q78 30 76 46 Q70 50 60 48 Z" fill="#fff" stroke="#d9cfc0" stroke-width="1.5"/><path d="M64 42 Q70 40 72 44" stroke="#d9cfc0" fill="none"/>`,
+    straw:`<rect x="46" y="0" width="4" height="40" fill="#ff6f91" transform="rotate(14 48 20)"/><path d="M16 22 h48" stroke="#e8d3a3" stroke-width="5" stroke-dasharray="2 3"/>`}[a.gar]||'';
+  return `<svg viewBox="0 0 80 90" xmlns="http://www.w3.org/2000/svg">${grad}${body}${gar}</svg>`;}
+PLACES.pub.bld.forEach((b,i)=>{b.seatRef=PLACES.pub.seats[i];});
 // ---- 비치펍: 노을범 (칵테일·신청곡·걱정종이·태블릿 유튜브) ----
 const PUB_DRINKS=[['🌅','다섯 시 반','시계탑처럼 끝나지 않는 맛. 리필은 안 돼.'],['🧾','동구리의 영수증','쓴맛이 길게 남아. 잔돈은 안 돌려줌.'],['🔥','불멍 하이볼','멍하니 보고만 있어도 줄어들어.'],['🦭','노을범 스페셜','주인도 레시피를 몰라. 매번 맛이 달라.'],
  ['📝','걱정 한 스푼','마시고 나면 주머니에 걱정종이가 한 장 늘어 있어.','worry'],['🍃','바람이 쓴 시','맛은 잘 모르겠는데 여운이 있어.'],['✉','반쯤 쓴 편지','끝맛이 안 나. 끝까지 안 썼으니까.'],['📚','책다람의 연체료','마실수록 비싸지는 기분이 들어.'],
@@ -2640,7 +2683,7 @@ const Pub={on:false,song:null,yt:null,small:0,reqs:[],off:0,
         try{const r=await D.get(D.ref(Net.db,'residents/'+v.uid));if(!r.exists()||r.val().name!==H_NAME)return;}catch(e){return;}this.song=v;this.apply();});
       D.onValue(D.query(D.ref(Net.db,'chat/pubreq'),D.limitToLast(15)),s=>{const a=[];s.forEach(x=>{a.push(x.val());});this.reqs=a.reverse();});}
     this.apply();},
-  leave(){this.stop();const t=document.getElementById('pubTab');if(t)t.remove();const b=document.getElementById('pubTip');if(b)b.remove();},
+  leave(){this.stop();this.clearCup();const t=document.getElementById('pubTab');if(t)t.remove();const b=document.getElementById('pubTip');if(b)b.remove();},
   tip(){if(document.getElementById('pubTip'))return;const b=document.createElement('div');b.id='pubTip';b.textContent='🔔 바를 누르면 노을범';document.body.appendChild(b);setTimeout(()=>b.classList.add('off'),4500);},
   // 태블릿: 평소엔 오늘의 메뉴판, 노래 나올 땐 커져서 유튜브
   tab(){let t=document.getElementById('pubTab');if(!t){t=document.createElement('div');t.id='pubTab';t.innerHTML='<img src="pub/tab.webp" alt="" draggable="false"><div class="scr"><div class="mn"></div><div id="pubYT"></div></div><button class="sm" aria-label="작게">📺 작게</button><button class="lis">🎧 같이 듣기</button>';document.body.appendChild(t);
@@ -2661,7 +2704,7 @@ const Pub={on:false,song:null,yt:null,small:0,reqs:[],off:0,
     const p=el.querySelector('[data-play]');if(p)p.onclick=()=>this.play(el.querySelector('.yl').value);
     const st=el.querySelector('[data-stop]');if(st)st.onclick=()=>this.setSong('off');},
   async drink(m){const ok=await Pay.fx(PUB_PRICE);if(ok===false){this.say=`${PUB_PRICE}초도 없어? 해변에 조개 많던데.`;this.render();return;}
-    document.getElementById('pubp').classList.remove('on');Snd.syn&&Snd.syn('ding',0.4);say(me,m[0]+' '+m[1]);
+    document.getElementById('pubp').classList.remove('on');Snd.syn&&Snd.syn('ding',0.4);this.serve(m[1]);setTimeout(()=>say(me,m[0]+' '+m[1]),900);
     if(m[3]==='worry'){Me.addItem('worry',1);}
     Me.log(`비치펍에서 「${m[1]}」을 마셨다. ${m[2]}`,'pub_'+m[1]+ymd());setTimeout(()=>popMe(`<b>${m[0]} ${esc(m[1])}</b>${esc(m[2])}`,3600),700);},
   async worry(){const ok=await Pay.fx(WORRY_PRICE);if(ok===false){this.say='2초. 걱정에 비하면 싼 거야.';this.render();return;}Me.addItem('worry',1);Me.log('노을범에게 걱정종이를 한 장 샀다.','worry'+Date.now());
@@ -2669,6 +2712,11 @@ const Pub={on:false,song:null,yt:null,small:0,reqs:[],off:0,
   async req(t){t=(t||'').trim();if(!t)return;if(ONL()){try{const D=Net.fn;await D.push(D.ref(Net.db,'chat/pubreq'),{uid:Net.uid,name:me.name,text:t.slice(0,40),ts:Date.now()});}catch(e){toast('쪽지가 바람에 날아갔어. 다시 해 볼래?',1800);return;}}
     else this.reqs.unshift({name:me.name,text:t.slice(0,40)});
     Me.log(`비치펍에 신청곡 쪽지를 냈다. "${t.slice(0,40)}"`,'req'+Date.now());this.mode='main';this.say='받았어. 틀어 줄지는… 분위기 봐서.';this.render();},
+  // 주문한 잔이 바 위로 스윽 밀려 나옴 (내 자리 앞)
+  serve(name){this.clearCup();const x=me.sitting&&me.seat?me.seat.x:me.x,d=document.createElement('div');d.className='pubCup';d.style.left=x+'%';d.innerHTML=drinkSVG(name);
+    document.getElementById('fxTop').appendChild(d);this.cup=d;Snd.syn&&Snd.syn('tap');},
+  clearCup(){if(this.cup){this.cup.remove();this.cup=null;}},
+  big(){const t=document.getElementById('pubTab');return !!t&&t.classList.contains('big');},
   vid(u){u=(u||'').trim();const m=u.match(/(?:youtu\.be\/|v=|shorts\/|embed\/)([\w-]{11})/)||u.match(/^([\w-]{11})$/);return m?m[1]:null;},
   play(u){const id=this.vid(u);if(!id){this.say='그거 유튜브 링크 맞아?';this.render();return;}this.setSong('v:'+id);document.getElementById('pubp').classList.remove('on');},
   async setSong(text){if(ONL()){const D=Net.fn;try{await D.push(D.ref(Net.db,'chat/pubsong'),{uid:Net.uid,text,ts:D.serverTimestamp()});}catch(e){toast('틀기 실패. 다시 해 봐',1800);}}
@@ -2914,6 +2962,7 @@ function frameBody(now){const dt=Math.min(0.05,(now-last)/1000);last=now;const t
   npcs.forEach(c=>{try{npcThink(c,dt);stepChar(c,dt);}catch(e){}});Net.peers.forEach(c=>stepChar(c,dt));Net.tick();
   [me,...npcs,...Net.peers.values()].forEach(c=>{if(c){c._dt=dt;try{place(c,t);}catch(e){if(!window._pe){window._pe=1;console.warn('place 오류',e);}}}});
   let lx=0,ly=0;if(me&&me.target&&!me.sitting&&P.charVh){const dx=(me.target[0]-me.x)/100*SW,dy=(me.target[1]-me.y)/100*SH,d=Math.hypot(dx,dy)||1;lx=dx/d*innerWidth*0.14;ly=dy/d*innerHeight*0.12;}
+  if(placeKey==='pub'&&Pub.big())lx=innerWidth*0.26;
   leadX+=(lx-leadX)*Math.min(1,dt*1.6);leadY+=(ly-leadY)*Math.min(1,dt*1.6);
   const fx0=(me?me.x/100*SW:SW/2)+leadX,fy0=(me?me.y/100*SH-charH(me.y)*0.4:SH/2)+leadY;
   const tx=SW<innerWidth?(SW-innerWidth)/2:Math.max(0,Math.min(SW-innerWidth,fx0-innerWidth/2)),ty=SH<innerHeight?(SH-innerHeight)/2:Math.max(0,Math.min(SH-innerHeight,fy0-innerHeight/2));
